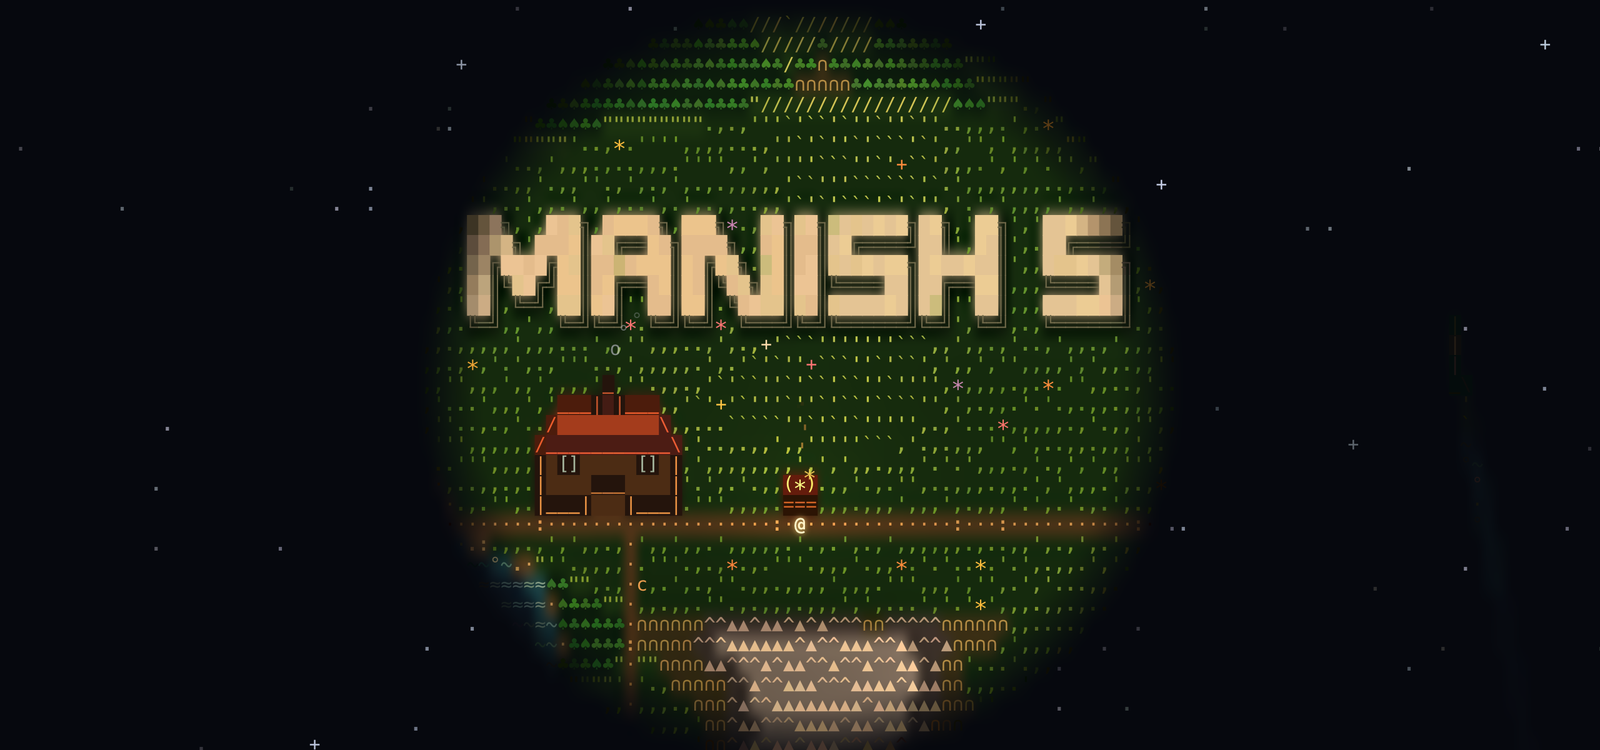
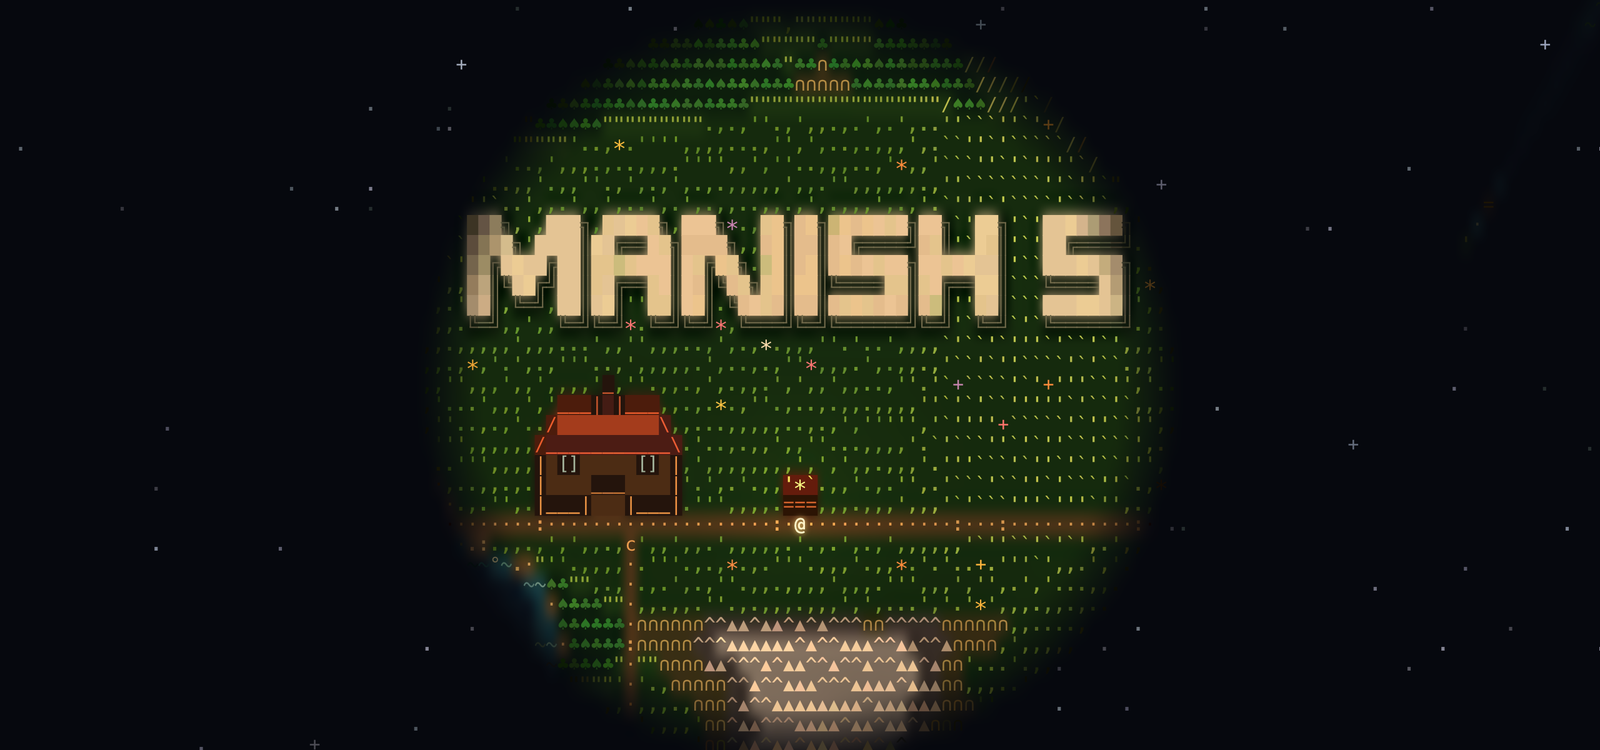
Reproducible social card: freeze the frame in og mode, ship the shooter

diff --git a/island.js b/island.js
@@ -660,6 +660,7 @@
     cat.next = 0.35 + Math.random() * 0.6;
   }
   function update(dt) {
+    if (OG) { clock = Number(params.get('c')) || 9.5; return; }
     clock += dt;
     if (!FREEZE) dayT = (dayT + dt / DAY) % 1;
     if (clock >= player.next) {
@@ -691,12 +692,12 @@
     millPhase += dt * (1.4 + 3 * (wm ? wind(wm.x, wm.y, clock) : 0.5)) * (REDUCE ? 0.25 : 1);
     millFrame = Math.floor(millPhase);
     const f = byId.campfire;
-    if (f && !REDUCE) {
+    if (f && !REDUCE && !OG) {
       sparkAcc += dt * (3 + 6 * night);
       while (sparkAcc > 1) { sparkAcc--; particles.push({ kind: 'spark', x: f.x + 0.6 + Math.random() * 1.8, y: f.y - 0.2, vx: (Math.random() - 0.5) * 1.2 + 0.5, vy: -(2.4 + Math.random() * 2.6), age: 0, life: 0.7 + Math.random() * 0.9, grav: -0.4 }); }
     }
     const ws = byId.workshop;
-    if (ws && !REDUCE) {
+    if (ws && !REDUCE && !OG) {
       smokeAcc += dt * 1.5;
       while (smokeAcc > 1) { smokeAcc--; particles.push({ kind: 'smoke', x: ws.x + 6, y: ws.y - 1, vx: 0.9 + Math.random() * 0.8, vy: -(0.9 + Math.random() * 0.6), age: 0, life: 2.4 + Math.random() * 1.4, grav: 0.05 }); }
     }

diff --git a/README.md b/README.md
@@ -49,4 +49,7 @@ No frameworks, no build step, no dependencies. Two plain JavaScript files and on
 ```sh
 python3 -m http.server 8000      # then open http://localhost:8000
 node --test 'test/*.test.cjs'    # generator tests
+node tools/shoot.mjs shot.json   # screenshots, the way og.png was made
 ```
+
+Add `?seed=1234` to the URL for a different island, or find the chest and roll one.
